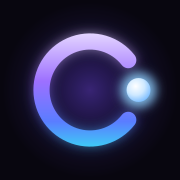
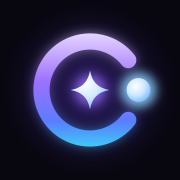
feat(brand): a richer mark, a dial, a tilted orbit, a counter-ring and a core (#82)

Changed region(s): [[0.3889, 0.3889, 0.6111, 0.6111]]

diff --git a/src/components/gates/gate-realm.tsx b/src/components/gates/gate-realm.tsx
@@ -103,7 +103,7 @@ export function GateRealm() {
       <header className="pointer-events-none relative z-10 flex items-center justify-between px-5 pt-5 sm:px-[5vw] sm:pt-8">
         <Link href="/" prefetch={false} className="pointer-events-auto flex items-center gap-3" aria-label="codeonym — open the default gate">
           {/* eslint-disable-next-line @next/next/no-img-element -- a 1 KB local SVG mark */}
-          <img src="/brand/mark.svg" alt="" className="size-8" />
+          <img src="/brand/mark-small.svg" alt="" className="size-8" />
           <span className="hidden font-display text-[13px] tracking-[0.34em] text-white sm:inline">CODEONYM</span>
         </Link>
         <nav className="pointer-events-auto flex shrink-0 gap-4 font-mono text-[11px] tracking-[0.14em] whitespace-nowrap text-muted-foreground uppercase">

diff --git a/src/components/interface/top-bar.tsx b/src/components/interface/top-bar.tsx
@@ -81,7 +81,7 @@ export function TopBar() {
     <header className={cn("pointer-events-none fixed inset-x-0 top-0 z-30 flex items-start justify-between gap-3 px-3 pt-3 transition-opacity duration-1000 sm:px-[4vw] sm:pt-6", !ready && "opacity-0")}>
       <button type="button" onClick={closeFocus} className="pointer-events-auto flex items-center gap-3 text-left" aria-label="codeonym — back to orbit">
         {/* eslint-disable-next-line @next/next/no-img-element -- a 1 KB local SVG mark */}
-        <img src="/brand/mark.svg" alt="" className="size-8" />
+        <img src="/brand/mark-small.svg" alt="" className="size-8" />
         <span>
           <span className="block font-display text-[13px] tracking-[0.34em] text-white">{player.handle.toUpperCase()}</span>
           <span className="eyebrow mt-0.5 block text-[9px]">

diff --git a/scripts/assets/brand.py b/scripts/assets/brand.py
@@ -8,7 +8,10 @@ every letter is strokes with round ends on the same circle as the mark.
   for s in 16 32 48; do inkscape src/app/icon.svg -o f$s.png -w $s; done && magick f16.png f32.png f48.png src/app/favicon.ico
 
 The mark: an open ring (a C, an orbit, an eclipse seen edge-on) and the one
-body that closes it. A thin inner orbit carries a second, smaller body.
+body that closes it. Around it, an instrument: a graduated dial, broken outer
+arcs, a tilted orbit passing behind the ring, a counter-ring turned the other
+way, and a four-pointed core. Three levels of detail, so the favicon and the
+32 px mark in the interface keep only what survives at their size.
 """
 from math import cos, radians, sin
 from pathlib import Path
@@ -35,6 +38,9 @@ def defs(p: str) -> str:
     <linearGradient id="{p}-arc" gradientUnits="userSpaceOnUse" x1="300" y1="96" x2="300" y2="416">
       <stop offset="0" stop-color="#e3d4ff"/><stop offset=".42" stop-color="#9d70ff"/><stop offset=".78" stop-color="#5a7dff"/><stop offset="1" stop-color="#3fc8f6"/>
     </linearGradient>
+    <linearGradient id="{p}-counter" gradientUnits="userSpaceOnUse" x1="150" y1="360" x2="360" y2="150">
+      <stop offset="0" stop-color="#3fc8f6"/><stop offset=".55" stop-color="#7f8dff"/><stop offset="1" stop-color="#d9c8ff"/>
+    </linearGradient>
     <radialGradient id="{p}-aura" cx=".5" cy=".5" r=".5">
       <stop offset="0" stop-color="#7a4dff" stop-opacity=".42"/><stop offset=".55" stop-color="#5a3de0" stop-opacity=".14"/><stop offset="1" stop-color="#5a3de0" stop-opacity="0"/>
     </radialGradient>
@@ -45,18 +51,102 @@ def defs(p: str) -> str:
     <filter id="{p}-halo" x="-200%" y="-200%" width="500%" height="500%"><feGaussianBlur stdDeviation="14"/></filter>"""
 
 
-def mark(p: str, stroke: float = 30, r: float = 150, orb: float = 23, inner: bool = True, aura: bool = True) -> str:
-    """the mark in a 512 box, centred on 256,256"""
-    arc = ring(256, 256, r)
+def arc(cx: float, cy: float, r: float, a0: float, a1: float) -> str:
+    """an arc from angle a0 to a1, in degrees, counter-clockwise, 0 pointing right"""
+    x0, y0 = cx + r * cos(radians(a0)), cy - r * sin(radians(a0))
+    x1, y1 = cx + r * cos(radians(a1)), cy - r * sin(radians(a1))
+    return f"M{f(x0)},{f(y0)} A{f(r)},{f(r)} 0 {1 if a1 - a0 > 180 else 0} 0 {f(x1)},{f(y1)}"
+
+
+def at(r: float, a: float) -> tuple[float, float]:
+    return 256 + r * cos(radians(a)), 256 - r * sin(radians(a))
+
+
+def spark(cx: float, cy: float, r: float, pinch: float = 0.14) -> str:
+    """a four-pointed star with hollow sides"""
+    k = r * pinch
+    return (
+        f"M{f(cx)},{f(cy - r)} Q{f(cx + k)},{f(cy - k)} {f(cx + r)},{f(cy)} Q{f(cx + k)},{f(cy + k)} {f(cx)},{f(cy + r)} "
+        f"Q{f(cx - k)},{f(cy + k)} {f(cx - r)},{f(cy)} Q{f(cx - k)},{f(cy - k)} {f(cx)},{f(cy - r)}Z"
+    )
+
+
+def dial(r: float, every: int = 5) -> str:
+    """the graduated outer ring: a tick each `every` degrees, a longer one each 30, none across the opening"""
+    d = []
+    for a in range(0, 360, every):
+        if a < 22 or a > 338:
+            continue
+        long = a % 30 == 0
+        (x0, y0), (x1, y1) = at(r, a), at(r + (13 if long else 6), a)
+        d.append(f"M{f(x0)},{f(y0)} L{f(x1)},{f(y1)}")
+    return " ".join(d)
+
+
+# the tilted orbit that passes behind the ring
+TILT = -24
+ORBIT = (238, 66)
+
+
+def on_orbit(a: float) -> tuple[float, float]:
+    x, y = ORBIT[0] * cos(radians(a)), -ORBIT[1] * sin(radians(a))
+    t = radians(TILT)
+    return 256 + x * cos(t) - y * sin(t), 256 + x * sin(t) + y * cos(t)
+
+
+def mark(p: str, level: int = 2, stroke: float = 26, r: float = 150, orb: float = 22, aura: bool = True) -> str:
+    """
+    the mark in a 512 box, centred on 256,256.
+    level 0: the ring, its body and the core (the icon).
+    level 1: adds the counter-ring (small sizes in the interface).
+    level 2: adds the dial, the tilted orbit, the outer arcs and the stars (the logo).
+    """
+    ring_d = ring(256, 256, r)
     out = []
     if aura:
         out.append(f'<circle cx="256" cy="256" r="250" fill="url(#{p}-aura)"/>')
-    out.append(f'<path d="{arc}" fill="none" stroke="url(#{p}-arc)" stroke-width="{f(stroke)}" stroke-linecap="round" filter="url(#{p}-glow)" opacity=".6"/>')
-    if inner:
-        out.append(f'<circle cx="256" cy="256" r="{f(r * 0.6)}" fill="none" stroke="{INK}" stroke-width="2" opacity=".2"/>')
-        a = radians(214)
-        out.append(f'<circle cx="{f(256 + r * 0.6 * cos(a))}" cy="{f(256 - r * 0.6 * sin(a))}" r="6.5" fill="#bca4ff"/>')
-    out.append(f'<path d="{arc}" fill="none" stroke="url(#{p}-arc)" stroke-width="{f(stroke)}" stroke-linecap="round"/>')
+    if level >= 2:
+        # the dial and the broken arcs outside it
+        out.append(f'<path d="{dial(206)}" fill="none" stroke="{INK}" stroke-width="1.6" stroke-linecap="round" opacity=".34"/>')
+        out.append(f'<circle cx="256" cy="256" r="200" fill="none" stroke="{INK}" stroke-width="1" opacity=".14"/>')
+        for a0, a1, w, o in ((52, 128, 3, 0.75), (140, 152, 3, 0.45), (196, 262, 3, 0.7), (272, 280, 3, 0.4), (292, 330, 3, 0.6)):
+            out.append(f'<path d="{arc(256, 256, 232, a0, a1)}" fill="none" stroke="url(#{p}-arc)" stroke-width="{w}" stroke-linecap="round" opacity="{o}"/>')
+        for a in (134, 268, 286):
+            x, y = at(232, a)
+            out.append(f'<circle cx="{f(x)}" cy="{f(y)}" r="2.6" fill="#cdbcff"/>')
+        # the tilted orbit, drawn before the ring so it passes behind it
+        out.append(f'<ellipse cx="256" cy="256" rx="{ORBIT[0]}" ry="{ORBIT[1]}" transform="rotate({TILT} 256 256)" fill="none" stroke="url(#{p}-arc)" stroke-width="1.8" opacity=".55"/>')
+        x, y = on_orbit(158)
+        out.append(f'<circle cx="{f(x)}" cy="{f(y)}" r="13" fill="#b79bff" filter="url(#{p}-halo)" opacity=".7"/>')
+        out.append(f'<circle cx="{f(x)}" cy="{f(y)}" r="6" fill="#e9deff"/>')
+        x, y = on_orbit(318)
+        out.append(f'<circle cx="{f(x)}" cy="{f(y)}" r="3.4" fill="#8fd0ff"/>')
+        # far stars
+        for x, y, s, o in ((84, 92, 9, 0.8), (432, 108, 6, 0.6), (406, 420, 8, 0.7), (70, 388, 5, 0.5), (300, 34, 4, 0.5)):
+            out.append(f'<path d="{spark(x, y, s, 0.1)}" fill="{INK}" opacity="{o}"/>')
+    out.append(f'<path d="{ring_d}" fill="none" stroke="url(#{p}-arc)" stroke-width="{f(stroke)}" stroke-linecap="round" filter="url(#{p}-glow)" opacity=".6"/>')
+    out.append(f'<path d="{ring_d}" fill="none" stroke="url(#{p}-arc)" stroke-width="{f(stroke)}" stroke-linecap="round"/>')
+    if level >= 1:
+        # light caught on the upper edge of the ring
+        out.append(f'<path d="{arc(256, 256, r + stroke * 0.26, 62, 168)}" fill="none" stroke="#ffffff" stroke-width="{f(stroke * 0.09)}" stroke-linecap="round" opacity=".5"/>')
+        # the counter-ring: thinner, turned the other way
+        ri = r * 0.68
+        out.append(f'<path d="{arc(256, 256, ri, 232, 232 + 296)}" fill="none" stroke="url(#{p}-counter)" stroke-width="{f(stroke * 0.36)}" stroke-linecap="round"/>')
+        x, y = at(ri, 198)
+        out.append(f'<circle cx="{f(x)}" cy="{f(y)}" r="{f(stroke * 0.25)}" fill="#bca4ff"/>')
+    if level >= 2:
+        # the innermost ring, dashed, and the marks at its quarters
+        out.append(f'<circle cx="256" cy="256" r="{f(r * 0.44)}" fill="none" stroke="{INK}" stroke-width="1.6" stroke-dasharray="2 7" stroke-linecap="round" opacity=".5"/>')
+        for a in (45, 135, 225, 315):
+            (x0, y0), (x1, y1) = at(r * 0.44 - 5, a), at(r * 0.44 + 5, a)
+            out.append(f'<path d="M{f(x0)},{f(y0)} L{f(x1)},{f(y1)}" stroke="{INK}" stroke-width="1.6" stroke-linecap="round" opacity=".7"/>')
+    # the core
+    core = r * (0.3 if level else 0.4)
+    out.append(f'<circle cx="256" cy="256" r="{f(core * 0.8)}" fill="#9d70ff" filter="url(#{p}-halo)" opacity=".75"/>')
+    out.append(f'<path d="{spark(256, 256, core)}" fill="url(#{p}-orb)"/>')
+    if level >= 2:
+        out.append(f'<path d="{spark(256, 256, core * 0.52, 0.1)}" transform="rotate(45 256 256)" fill="#ffffff" opacity=".55"/>')
+    # the body that closes the ring
     out.append(f'<circle cx="{f(256 + r)}" cy="256" r="{f(orb * 1.5)}" fill="#8fd0ff" filter="url(#{p}-halo)" opacity=".85"/>')
     out.append(f'<circle cx="{f(256 + r)}" cy="256" r="{f(orb)}" fill="url(#{p}-orb)"/>')
     return "\n    ".join(out)
@@ -122,7 +212,8 @@ def letters() -> tuple[str, float]:
 
 def word(tx: float, ty: float, scale: float, weight: float = 8.5) -> str:
     d, _ = letters()
-    return f'<path transform="translate({f(tx)},{f(ty)}) scale({f(scale)})" d="{d}" fill="none" stroke="{INK}" stroke-width="{f(weight)}" stroke-linecap="round" stroke-linejoin="round"/>'
+    dot = f'<circle cx="{f(tx + 2 * R * scale)}" cy="{f(ty - R * scale)}" r="{f(weight * 0.82 * scale)}" fill="#8fd0ff"/>'
+    return dot + f'<path transform="translate({f(tx)},{f(ty)}) scale({f(scale)})" d="{d}" fill="none" stroke="{INK}" stroke-width="{f(weight)}" stroke-linecap="round" stroke-linejoin="round"/>'
 
 
 def svg(w: float, h: float, p: str, body: str) -> str:
@@ -134,6 +225,8 @@ def main() -> None:
     _, width = letters()
 
     (brand / "mark.svg").write_text(svg(512, 512, "m", mark("m")))
+    # for 24 to 48 px in the interface: no hairlines to turn to mush
+    (brand / "mark-small.svg").write_text(svg(512, 512, "s", mark("s", level=1, stroke=34, r=170, orb=28, aura=False)))
 
     # horizontal: the mark, then the word on the mark's own centre line
     s = 1.0
@@ -151,7 +244,7 @@ def main() -> None:
     (brand / "logo-stacked.svg").write_text(svg(sw, 380 + 10 + 2 * R + 30 + DESC + 34, "m", body))
 
     # the icon: on its own night, heavier, nothing that vanishes at 16 px
-    body = f'<rect width="512" height="512" rx="116" fill="{NIGHT}"/>\n    <circle cx="256" cy="256" r="250" fill="url(#i-aura)"/>\n    ' + mark("i", stroke=46, r=138, orb=34, inner=False, aura=False)
+    body = f'<rect width="512" height="512" rx="116" fill="{NIGHT}"/>\n    <circle cx="256" cy="256" r="250" fill="url(#i-aura)"/>\n    ' + mark("i", level=0, stroke=46, r=138, orb=34, aura=False)
     (ROOT / "src" / "app" / "icon.svg").write_text(svg(512, 512, "i", body))
 
 

diff --git a/scripts/assets/README.md b/scripts/assets/README.md
@@ -8,7 +8,7 @@ for this site; the rest is CC0 or supplied by the owner. Credits are in
 | ------------------------------------ | -------------------------------------------------------------------- | ---------------- |
 | `public/models/record/monolith.glb`  | THE SYSTEM's body: a crystal broken into 30 pieces, plus its `heart` | generated by `monolith.py` |
 | `public/models/record/shards.glb`    | one crystal per sector of the record, instanced for every entry      | generated by `monolith.py` |
-| `public/brand/*.svg`, `src/app/icon.svg` | the mark, the wordmark (horizontal and stacked) and the icon: an open ring and the body that closes it; the letters are strokes on the same circle, no font | generated by `brand.py` |
+| `public/brand/*.svg`, `src/app/icon.svg` | the mark at three levels of detail (`mark.svg` full, `mark-small.svg` for the interface, the icon), the wordmark (horizontal and stacked) and the icon: an open ring and the body that closes it; the letters are strokes on the same circle, no font | generated by `brand.py` |
 | `public/env/studio.hdr`              | the light the obsidian reflects (512×256, graded violet)             | [Studio Kontrast 04](https://polyhaven.com/a/studio_kontrast_04), Poly Haven · CC0 |
 | `src/app/opengraph-image.png`        | the social card: the live scene with the title set over it           | captured by `social-card.mjs` |
 | `public/audio/*` (sfx)               | interface sounds, ARISE                                              | [Kenney](https://kenney.nl) interface / sci-fi / RPG packs · CC0 |
